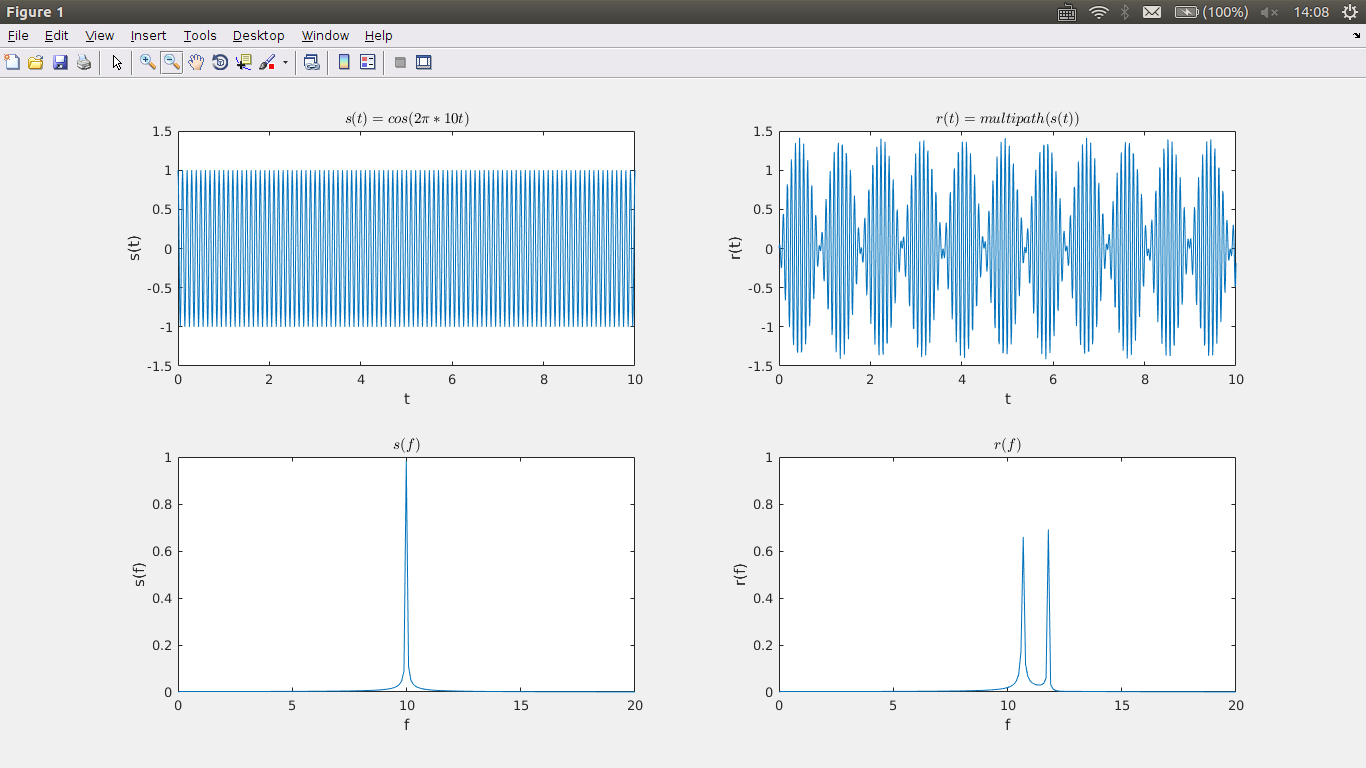
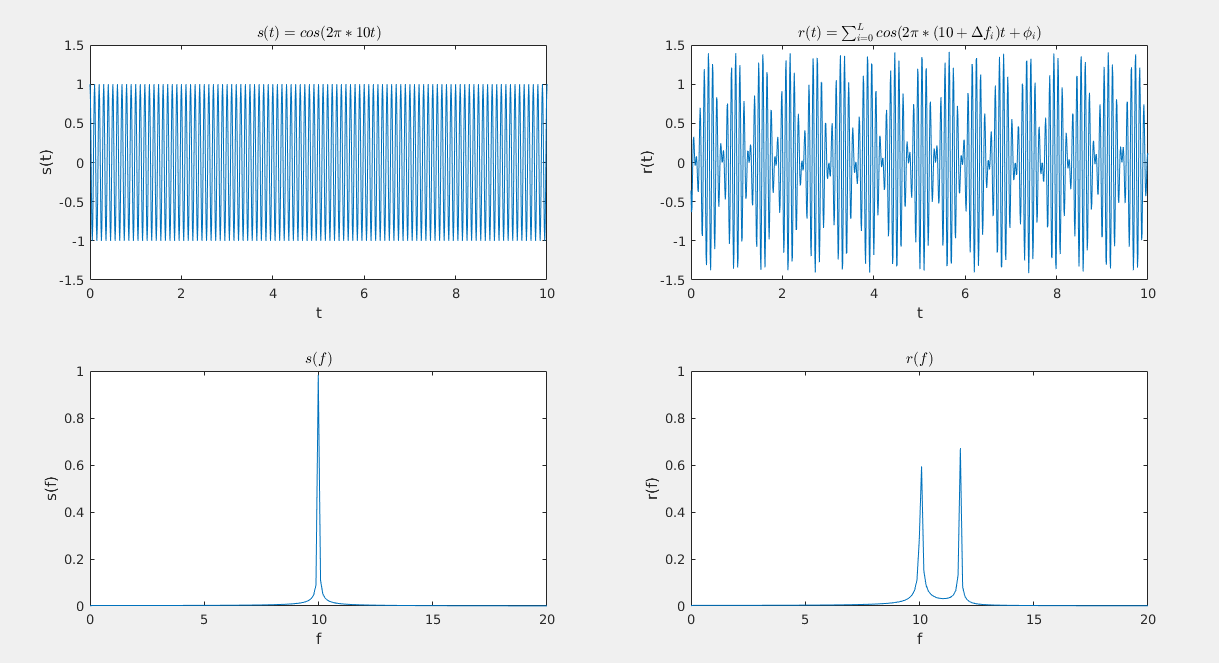
修改了title名称

diff --git a/main_singlefreq_multipath.m b/main_singlefreq_multipath.m
@@ -1,6 +1,7 @@
 %%单频信号经过多径时变信道
 %  时延大小随时间变化，
 %  这里的时变 是人为设定的； 实际中时变 大多因为移动性导致
+
 clc
 clear all;
 import freq_trans.T2F
@@ -26,11 +27,10 @@ rt=sum(s)/sqrt(L);  % 将信号经过多径的结果相加
 %-----------画图----------
 figure(1)
 subplot(221)
-plot(t,st); xlabel('t');ylabel('s(t)');title('$$s(t)=cos(2\pi*10t)$$','interpreter','latex');
+plot(t,st); xlabel('t');ylabel('s(t)');title('$s(t)=cos(2\pi*10t)$','interpreter','latex');
 axis([0 10 -1.5 1.5]);
 subplot(222)
-plot(t,rt);xlabel('t');ylabel('r(t)');title('$$r(t)=multipath(s(t))$$','interpreter','latex');
-
+plot(t,rt);xlabel('t');ylabel('r(t)');title('$r(t)=\sum _{i=0}^{L} cos(2\pi*(10+\Delta f _i)t+\phi _i)$','interpreter','latex');
 subplot(223)
 plot(ff,sf);xlabel('f');ylabel('s(f)');
 title('$s(f)$','interpreter','latex');
